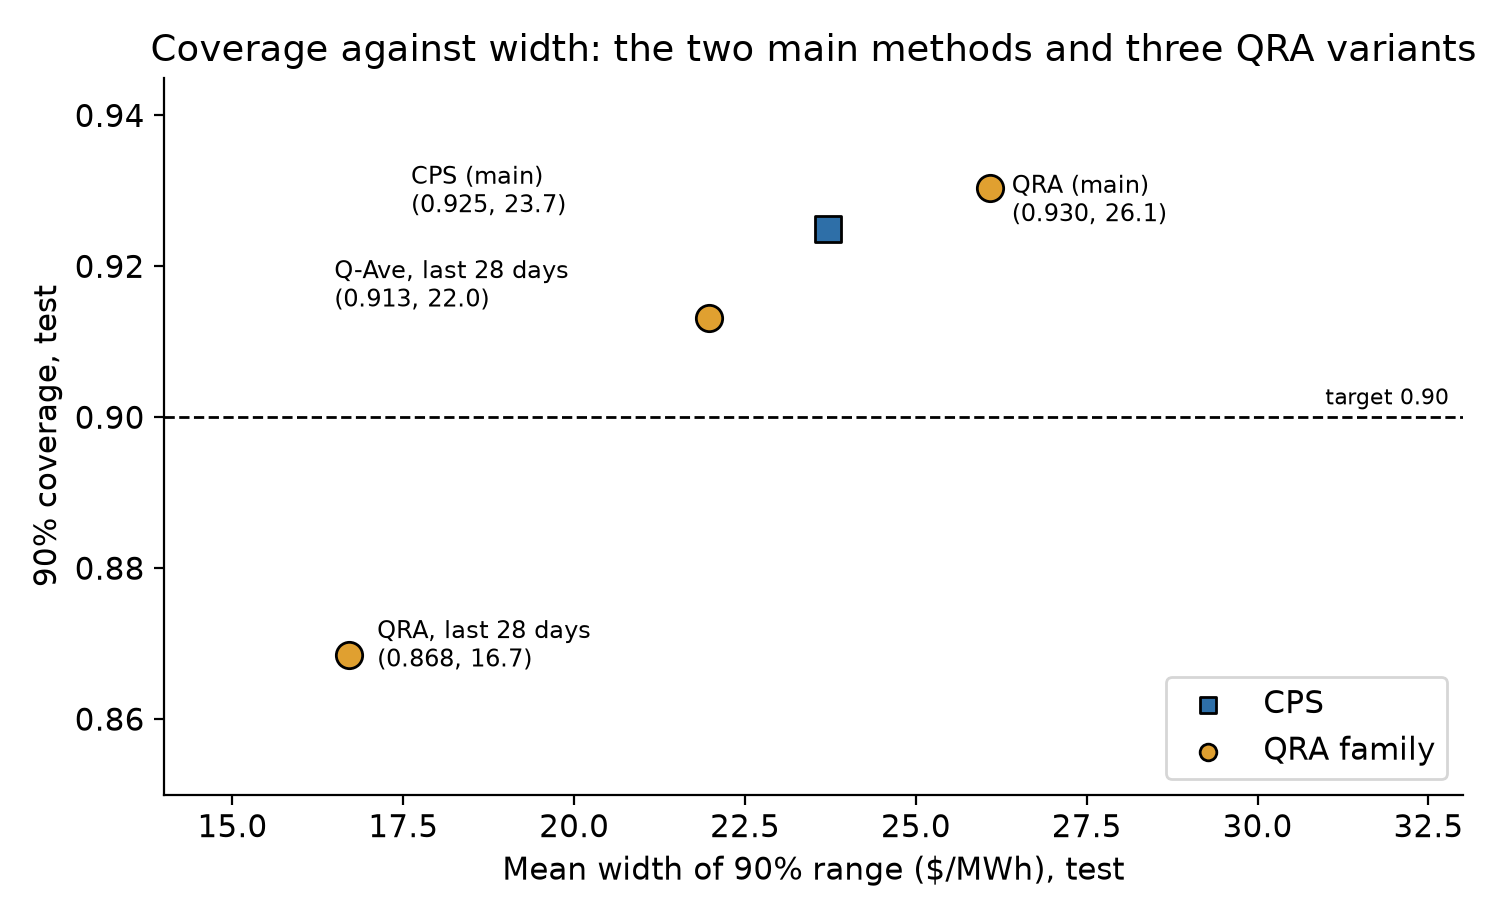
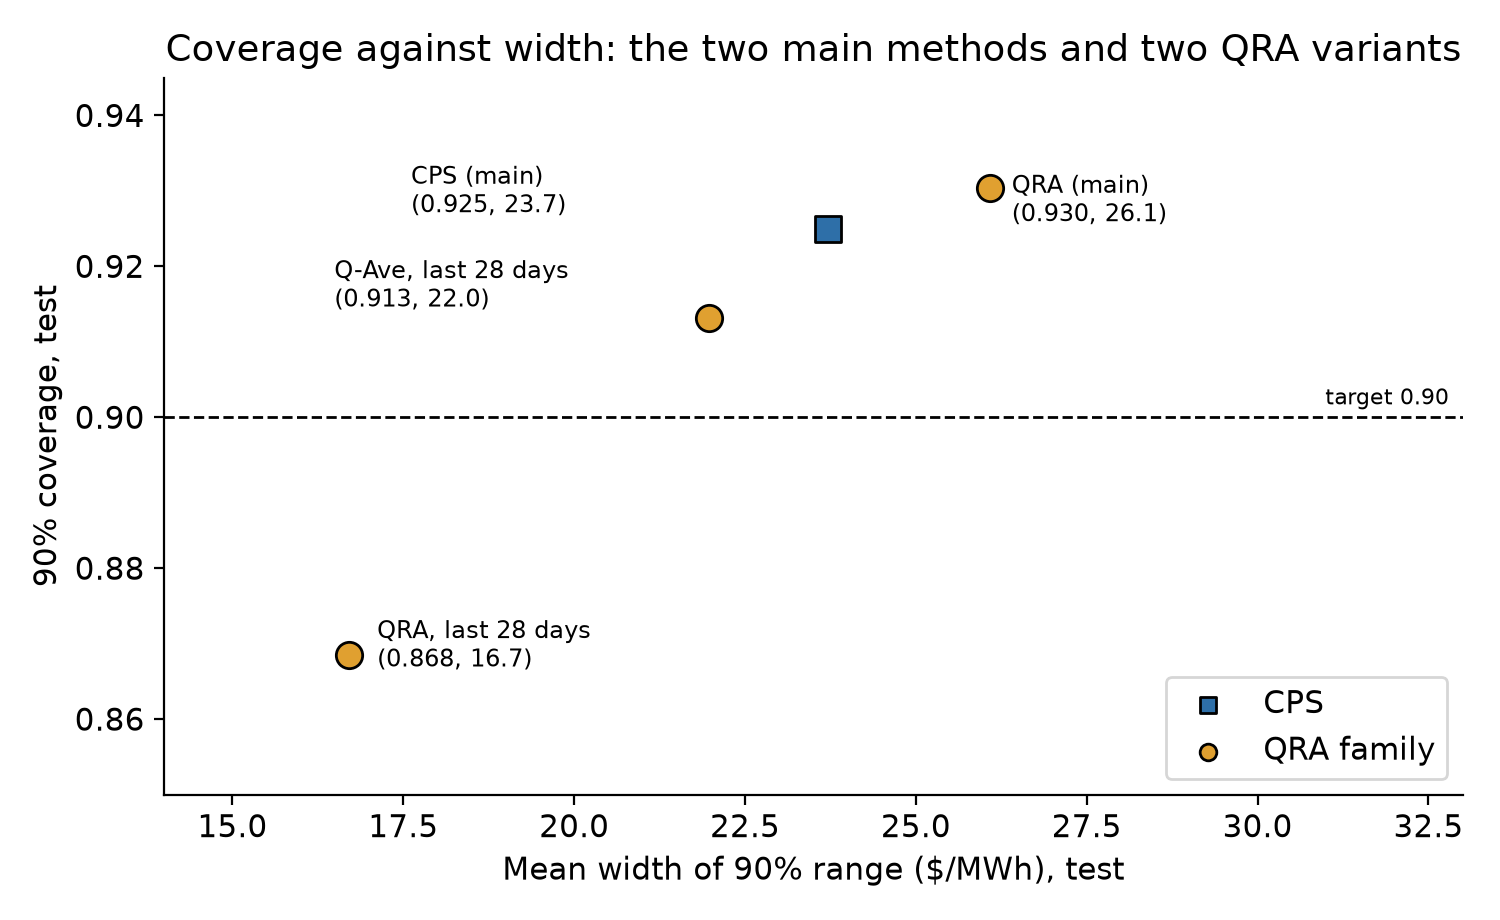
Report Figure 5: correct title (two QRA variants)

Changed region(s): [[0.092, 0.0304, 0.9813, 0.0913]]

diff --git a/scripts/report/make_figs.py b/scripts/report/make_figs.py
@@ -58,5 +58,5 @@ for k,lab,fam in pts:
 ax.axhline(0.9,ls='--',color='k',lw=1); ax.set_xlabel('Mean width of 90% range ($/MWh), test'); ax.set_ylabel('90% coverage, test')
 ax.set_xlim(14,33); ax.set_ylim(0.85,0.945); ax.text(32.8,0.901,'target 0.90',fontsize=8,ha='right',va='bottom')
 ax.scatter([],[],color=CC,marker='s',edgecolor='k',label='CPS'); ax.scatter([],[],color=QC,marker='o',edgecolor='k',label='QRA family'); ax.legend(loc='lower right')
-ax.set_title('Coverage against width: the two main methods and three QRA variants'); fig.tight_layout(); fig.savefig(F+'v3_cps_qra_variants_coverage_width.png',dpi=200); plt.close(fig)
+ax.set_title('Coverage against width: the two main methods and two QRA variants'); fig.tight_layout(); fig.savefig(F+'v3_cps_qra_variants_coverage_width.png',dpi=200); plt.close(fig)
 print('ok')
